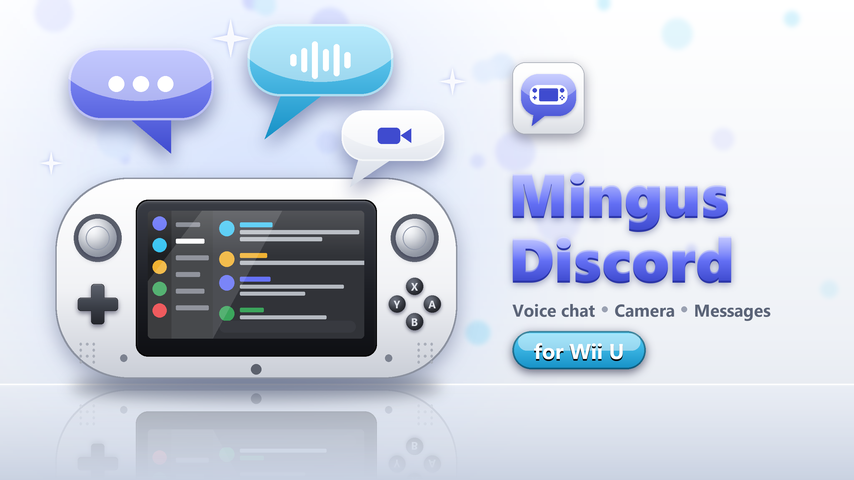
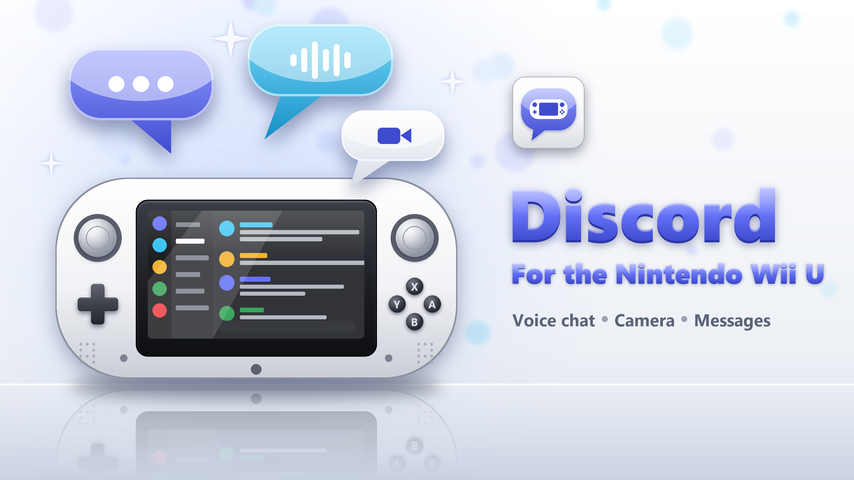
Rename the app to "Discord: For the Nintendo Wii U"
Wii U Menu name, in-app header, banner and docs. The download is now
DiscordWiiU.wuhb. The SD data folder stays wiiu/apps/MingusDiscord so
existing logins and settings keep working.

Changed region(s): [[0.5785, 0.125, 0.9742, 0.5938], [0.5785, 0.625, 0.9133, 0.8125]]

diff --git a/src/main.c b/src/main.c
@@ -1,4 +1,4 @@
-/* MingusDiscord - native Discord text client for Wii U (REST polling, QR login, no PC needed) */
+/* Discord: For the Nintendo Wii U - native Discord client for Wii U (REST polling, QR login, no PC needed) */
 #include <SDL2/SDL_image.h>
 #include "nx.h"
 #include "nxnet.h"
@@ -867,7 +867,7 @@ static void draw_chat(void) {
     int hw = nx_text(CHAT_X + 54, 14, cur_name, 1 | NX_BOLD, C_WHITE, CHAT_W - 300);
     if (cur_topic[0] && !in_dms) { nx_rect(CHAT_X + 66 + hw, 18, 1, 22, RGB(63, 65, 71)); nx_text(CHAT_X + 78 + hw, 17, cur_topic, 0, C_MUTED, CHAT_W - 330 - hw); }
     if (job || img[0].job || img[1].job) nx_text(CHAT_X + CHAT_W - 70, 16, "...", 1, C_MUTED, 0);
-  } else nx_text(CHAT_X + 20, 14, "Mingus Discord", 1 | NX_BOLD, C_WHITE, 0);
+  } else nx_text(CHAT_X + 20, 14, "Discord: For the Nintendo Wii U", 1 | NX_BOLD, C_WHITE, 0);
   if (!cur_chan[0]) {                                           /* empty state */
     nx_circle(CHAT_X + CHAT_W / 2, 250, 56, C_SIDE); text_center(CHAT_X + CHAT_W / 2, 214, "#", 3 | NX_BOLD, C_MUTED);
     text_center(CHAT_X + CHAT_W / 2, 330, "Pick a channel to start chatting", 2 | NX_BOLD, C_WHITE);
@@ -1094,7 +1094,7 @@ static void handle_input(NxInput *in) {
 }
 
 int main(void) {
-  if (!nx_init("MingusDiscord")) return 1;
+  if (!nx_init("Discord: For the Nintendo Wii U")) return 1;
   nx_set_inline_provider(inline_provider); ov_init(av_get); ov_load_volumes(); anim_set_log(anim_log);
   dc_init(); dlog_init(dc_dir()); netmem_start();   /* before any network use: own socket memory for UDP voice/video */
   nxnet_init(); rs_load();

diff --git a/src/video.c b/src/video.c
@@ -1,4 +1,4 @@
-/* video.c - media playback for MingusDiscord (copied from youtube/src/video.c, DASH removed, js.h logging replaced).
+/* video.c - media playback for Discord: For the Nintendo Wii U (copied from youtube/src/video.c, DASH removed, js.h logging replaced).
  * Progressive download, MP4 demux (H.264 via the Wii U hardware decoder), WebM/Opus and MP3 audio, AAC via libavcodec,
  * audio-clock synchronised presentation. Decoding runs on its own thread; vid_tick() on the UI thread only uploads frames.
  * Additions over the original: several players at once (per-instance decoder, callback routing, decoder calls
@@ -49,7 +49,7 @@ struct Vid {
   double wall0, paused_at, pause_total; bool paused; double seek_base; uint32_t load_t0;
 };
 
-static char g_ua[400] = "User-Agent: MingusDiscord/1.0 (Nintendo Wii U homebrew)";
+static char g_ua[400] = "User-Agent: DiscordWiiU/1.0 (Nintendo Wii U homebrew)";
 void vid_set_ua(const char *ua) { snprintf(g_ua, sizeof g_ua, "%s", ua && *ua ? ua : "User-Agent: Mozilla/5.0"); }
 static void (*g_log)(const char *line);
 void vid_set_log(void (*fn)(const char *line)) { g_log = fn; }

diff --git a/src/rec.c b/src/rec.c
@@ -55,7 +55,7 @@ static int worker(void *arg) {
   { /* headers: OpusHead + OpusTags, each on its own page */
     uint8_t head[19]; memcpy(head, "OpusHead", 8); head[8] = 1; head[9] = 1; head[10] = pre & 255; head[11] = pre >> 8; le32(head + 12, 48000); head[16] = head[17] = 0; head[18] = 0;
     const uint8_t *p1[1] = {head}; int l1[1] = {19}; write_page(p1, l1, 1, 0, 0x02);
-    const char *vendor = "MingusDiscord"; uint8_t tags[64]; memcpy(tags, "OpusTags", 8); le32(tags + 8, (uint32_t)strlen(vendor)); memcpy(tags + 12, vendor, strlen(vendor)); le32(tags + 12 + strlen(vendor), 0);
+    const char *vendor = "DiscordWiiU"; uint8_t tags[64]; memcpy(tags, "OpusTags", 8); le32(tags + 8, (uint32_t)strlen(vendor)); memcpy(tags + 12, vendor, strlen(vendor)); le32(tags + 12 + strlen(vendor), 0);
     const uint8_t *p2[1] = {tags}; int l2[1] = {(int)(16 + strlen(vendor))}; write_page(p2, l2, 1, 0, 0); }
   static int16_t acc[8192]; int accn = 0; static int16_t pcm[RFRAME]; static uint8_t pk[50][400]; int pkl[50]; const uint8_t *pkp[50]; int npk = 0, lace = 0; uint64_t gran = 0;
   float ph = 0; uint32_t t0 = SDL_GetTicks();

diff --git a/src/aplay.c b/src/aplay.c
@@ -117,7 +117,7 @@ static int dec_thread(void *arg) {
 
 APlay *ap_open(const char *url, size_t max_bytes) {
   APlay *p = calloc(1, sizeof *p); if (!p) return NULL; snprintf(p->url, sizeof p->url, "%s", url); p->maxdl = max_bytes ? max_bytes : (96u << 20); p->mx = SDL_CreateMutex(); p->state = VID_LOADING;
-  const char *h[] = {"User-Agent: MingusDiscord/1.0 (Nintendo Wii U homebrew)", "Accept: */*", "Accept-Encoding: identity", NULL};
+  const char *h[] = {"User-Agent: DiscordWiiU/1.0 (Nintendo Wii U homebrew)", "Accept: */*", "Accept-Encoding: identity", NULL};
   plog("[aplay %p] open %.150s", (void *)p, url);
   p->job = nxnet_start("GET", url, h, NULL, 0, p->maxdl);
   p->th = SDL_CreateThreadWithStackSize(dec_thread, "adec", 256 * 1024, p); if (!p->th) seterr(p, "could not start the audio thread");

diff --git a/tools/build.py b/tools/build.py
@@ -1,7 +1,7 @@
 #!/usr/bin/env python3
-"""Build MingusDiscord.wuhb (no make needed).
+"""Build DiscordWiiU.wuhb (no make needed).
 
-    python tools/build.py            # release build -> MingusDiscord.wuhb
+    python tools/build.py            # release build -> DiscordWiiU.wuhb
     python tools/build.py --clean    # wipe build/ first
 
 Needs devkitPro with devkitPPC, wut and the Wii U portlibs (see docs/BUILDING.md), plus the
@@ -16,7 +16,7 @@ import subprocess
 import sys
 
 ROOT = os.path.dirname(os.path.dirname(os.path.abspath(__file__)))
-APP_NAME, SHORT_NAME, AUTHOR = 'Mingus Discord', 'Mingus Discord', 'Mingus'
+APP_NAME, SHORT_NAME, AUTHOR = 'Discord: For the Nintendo Wii U', 'Discord', 'Cuppaxx'
 EXE = '.exe' if os.name == 'nt' else ''
 
 

diff --git a/src/anim.c b/src/anim.c
@@ -19,7 +19,7 @@ static void (*g_alog)(const char *line);
 void anim_set_log(void (*fn)(const char *line)) { g_alog = fn; vid_set_log(fn); ap_set_log(fn); }
 static void alog(const char *fmt, ...) { if (!g_alog) return; char b[600]; va_list ap; va_start(ap, fmt); vsnprintf(b, sizeof b, fmt, ap); va_end(ap); g_alog(b); }
 
-static const char *k_ua = "User-Agent: MingusDiscord/1.0 (Nintendo Wii U homebrew)";
+static const char *k_ua = "User-Agent: DiscordWiiU/1.0 (Nintendo Wii U homebrew)";
 static SDL_atomic_t g_frame_kb;                                 /* decoded image-animation frames of all open Anims (KB) */
 size_t anim_frame_mem(void) { return (size_t)SDL_AtomicGet(&g_frame_kb) << 10; }
 

diff --git a/src/video.h b/src/video.h
@@ -1,6 +1,6 @@
 #ifndef VIDEO_H
 #define VIDEO_H
-/* media player (copied from youtube/src/video.c and trimmed for MingusDiscord: no DASH, no js.h).
+/* media player (copied from youtube/src/video.c and trimmed for this app: no DASH, no js.h).
  * Progressive HTTP fetch -> MP4 (H.264, hardware decoded) / WebM (Opus) / MP3 -> texture + audio.
  * Several players may be open at once: each has its own H.264 decoder instance and decode thread; frame-output
  * callbacks are routed to the right player (decoder user pointer, else the calling thread, else the frame buffer). */

diff --git a/common/nx.h b/common/nx.h
@@ -1,4 +1,4 @@
-/* nx - tiny shared UI layer for the MingusDiscord / MingusBrowser Wii U apps (SDL2 + SDL2_ttf + SDL2_image) */
+/* nx - tiny shared UI layer for the Discord / browser Wii U apps (SDL2 + SDL2_ttf + SDL2_image) */
 #ifndef NX_H
 #define NX_H
 #include <SDL2/SDL.h>

diff --git a/README.md b/README.md
@@ -1,11 +1,11 @@
 <div align="center">
 
-<img src="docs/img/banner.png" width="720" alt="Mingus Discord for Wii U: voice chat, camera, messages">
+<img src="docs/img/banner.png" width="720" alt="Discord: For the Nintendo Wii U (voice chat, camera, messages)">
 
-# Discord For The Nintendo Wii U
+# Discord: For the Nintendo Wii U
 ### (Working VC and Camera!)
 
-**Mingus Discord** is a native Discord client for the Wii U, with voice chat, cameras and Go Live viewing, running as a homebrew app on [Aroma](https://aroma.foryour.cafe/).
+**Discord: For the Nintendo Wii U** is an unofficial, native Discord client for the Wii U, with voice chat, cameras and Go Live viewing, running as a homebrew app on [Aroma](https://aroma.foryour.cafe/).
 
 [**⬇ Download**](https://github.com/Cuppaxx/Discord-For-The-Nintendo-Wii-U/releases/latest) · [**📖 Manual**](docs/MANUAL.md) · [**🛠 Building**](docs/BUILDING.md) · [**🐞 Report a bug**](https://github.com/Cuppaxx/Discord-For-The-Nintendo-Wii-U/issues/new/choose)
 
@@ -30,9 +30,10 @@
 ## Install
 
 1. Your Wii U needs the **[Aroma](https://wiiu.hacks.guide/)** homebrew environment.
-2. Download **`MingusDiscord.wuhb`** from the [latest release](https://github.com/Cuppaxx/Discord-For-The-Nintendo-Wii-U/releases/latest).
-3. Copy it to your SD card at **`SD:/wiiu/apps/MingusDiscord.wuhb`**.
-4. Put the SD card back and turn on the console. **Mingus Discord** appears on the Wii U Menu.
+2. Download **`DiscordWiiU.wuhb`** from the [latest release](https://github.com/Cuppaxx/Discord-For-The-Nintendo-Wii-U/releases/latest).
+3. Copy it to your SD card at **`SD:/wiiu/apps/DiscordWiiU.wuhb`**.
+4. Put the SD card back and turn on the console. **Discord: For the Nintendo Wii U** appears on the Wii U Menu.
+   *(Updating from an older build called `MingusDiscord.wuhb`? Delete that file so you don't get two icons. Your login and settings carry over.)*
 5. Open it, choose **Log in with QR code**, and scan the code with the Discord app on your phone (**You → Scan QR Code**).
 
 The full guide to every screen and button is in the **[Manual](docs/MANUAL.md)**.
@@ -52,7 +53,7 @@ See [Known limitations](docs/MANUAL.md#known-limitations) for what isn't support
 
 ## ⚠ Disclaimer
 
-Mingus Discord is an **unofficial** third-party client. It is **not affiliated with, endorsed by or supported by Discord Inc. or Nintendo**. Using third-party clients is against Discord's Terms of Service, and your account could be actioned. **Use it at your own risk.** "Discord" and "Wii U" are trademarks of their respective owners.
+This app is an **unofficial** third-party client. It is **not affiliated with, endorsed by or supported by Discord Inc. or Nintendo**. Using third-party clients is against Discord's Terms of Service, and your account could be actioned. **Use it at your own risk.** "Discord" and "Wii U" are trademarks of their respective owners.
 
 Your login token is stored only on your own SD card (`SD:/wiiu/apps/MingusDiscord/token.txt`). It is never sent anywhere except to Discord. **Never share that file or post your log files publicly without checking them first.**
 
@@ -68,4 +69,4 @@ The full instructions are in [docs/BUILDING.md](docs/BUILDING.md). How the depen
 
 ## License
 
-Mingus Discord is free software under the **[GNU GPL v3.0](LICENSE)**. It links x264 (GPL) and OpenSSL 3 (Apache-2.0), so the combined program must be GPLv3. The bundled libraries and fonts keep their own licenses; see [THIRD_PARTY.md](THIRD_PARTY.md).
+This app is free software under the **[GNU GPL v3.0](LICENSE)**. It links x264 (GPL) and OpenSSL 3 (Apache-2.0), so the combined program must be GPLv3. The bundled libraries and fonts keep their own licenses; see [THIRD_PARTY.md](THIRD_PARTY.md).

diff --git a/docs/MANUAL.md b/docs/MANUAL.md
@@ -1,7 +1,8 @@
 <div align="center">
 <img src="img/logo.png" width="120" alt="">
 
-# Mingus Discord: User Manual
+# User Manual
+### Discord: For the Nintendo Wii U
 
 </div>
 
@@ -25,9 +26,9 @@
 
 You need a Wii U running the **Aroma** homebrew environment ([guide](https://wiiu.hacks.guide/)).
 
-1. Download `MingusDiscord.wuhb` from the [Releases page](https://github.com/Cuppaxx/Discord-For-The-Nintendo-Wii-U/releases/latest).
-2. Copy it to `SD:/wiiu/apps/MingusDiscord.wuhb`.
-3. Start the console. **Mingus Discord** appears on the Wii U Menu, alongside your games.
+1. Download `DiscordWiiU.wuhb` from the [Releases page](https://github.com/Cuppaxx/Discord-For-The-Nintendo-Wii-U/releases/latest).
+2. Copy it to `SD:/wiiu/apps/DiscordWiiU.wuhb`.
+3. Start the console. **Discord: For the Nintendo Wii U** appears on the Wii U Menu, alongside your games.
 
 To update, replace the `.wuhb` file with the newer one. Your login and settings are kept, because they live in a separate folder (`SD:/wiiu/apps/MingusDiscord/`).
 
@@ -225,7 +226,7 @@ Settings and per-person volumes are saved in `uservol.txt`.
 
 ## 9. Files on your SD card
 
-Everything the app saves is in `SD:/wiiu/apps/MingusDiscord/`:
+Everything the app saves is in `SD:/wiiu/apps/MingusDiscord/`. The folder keeps the app's original name, so logins and settings carry over between versions.
 
 | File | What it is |
 |---|---|

diff --git a/docs/BUILDING.md b/docs/BUILDING.md
@@ -1,4 +1,4 @@
-# Building Mingus Discord
+# Building from source
 
 ## Requirements
 
@@ -19,14 +19,14 @@ export DEVKITPRO=/opt/devkitpro     # Windows: set DEVKITPRO=C:/devkitPro
 python tools/build.py
 ```
 
-The result is `MingusDiscord.wuhb` in the repository root. `python tools/build.py --clean` rebuilds everything from scratch.
+The result is `DiscordWiiU.wuhb` in the repository root. `python tools/build.py --clean` rebuilds everything from scratch.
 
 ## Layout
 
 ```
 src/        the app (main.c = UI + input, dc.c = REST API, gw.c = gateway, voice.c = voice/DAVE,
             vsend.c/vrecv.c = camera send/receive, golive.c = Go Live, overlay.c = menus/settings, ...)
-common/     the shared Mingus UI layer (nx.c: SDL2 drawing, text, input, software keyboard; nxnet.c: HTTP)
+common/     the shared UI layer (nx.c: SDL2 drawing, text, input, software keyboard; nxnet.c: HTTP)
 content/    files packed into the .wuhb (fonts, CA certificates, bird)
 assets/     Wii U Menu icon and launch images
 deps/       how the third-party libraries were built + the prebuilt bundle (deps/prebuilt, not in git)

diff --git a/CHANGELOG.md b/CHANGELOG.md
@@ -22,5 +22,6 @@
 * Desktop H.264 cameras at High@5.2 decode on the Wii U decoder.
 
 **UI**
+* The app is now called **Discord: For the Nintendo Wii U** (previously "Mingus Discord"). The download is `DiscordWiiU.wuhb`. SD data stays in `SD:/wiiu/apps/MingusDiscord/`.
 * QR-code login, a new logo and launch screen, and a bird.
 * Log out moved from − into Settings (press twice).
